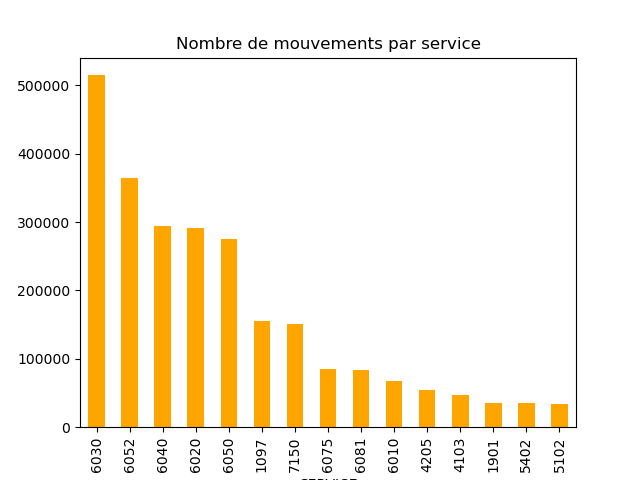
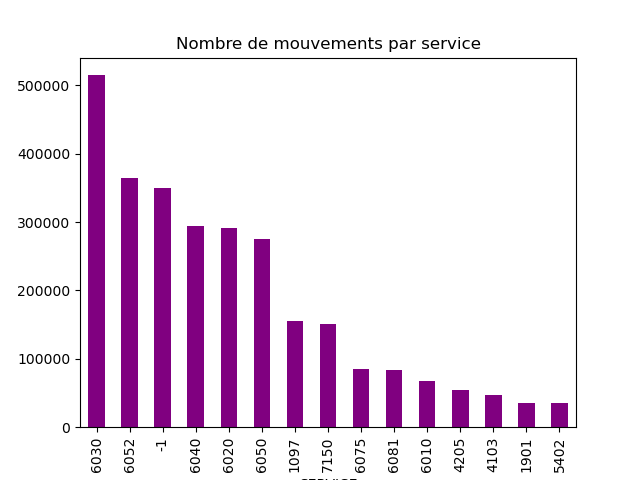
Modification interface graphique

Changed region(s): [[0.125, 0.1562, 0.9062, 1.0]]

diff --git a/pages/graphique6.py b/pages/graphique6.py
@@ -51,7 +51,7 @@ class Graphique6(tk.Frame):
         self.frame = tk.Frame(self)
         self.frame.place(relheight=1, y=0, x=450)
         self.frame.lower()
-        self.df3=of(ezip=None,nfile="medocs_produits.csv",echantillon=10000000,separator=";",pandas=True)
+        self.df2=of(ezip=None,nfile="medocs_produits.csv",echantillon=10000000,separator=";",pandas=True)
 
     def creation_graph(self):
         # Nettoyage de la figure actuelle
@@ -61,11 +61,11 @@ class Graphique6(tk.Frame):
         e_p=self.e_p.get().split(',') if self.e_p.get() != "" else []
         exclu=self.exclu.get().split(',') if self.exclu.get() != "" else []
 
-        graph6v2(self.controller.df,df3=self.df3,e_p=e_p,exclusions=exclu,nprod=self.nprod.get())
+        graph6v2(self.controller.df,df2=self.df2,e_p=e_p,exclusions=exclu,nprod=self.nprod.get())
         plt.gcf().set_size_inches(5, 4)
         plt.tight_layout()
         plt.subplots_adjust(bottom=0.20)
-        plt.savefig("./graphiques/img/test")
+        plt.savefig("./graphiques/img/g6.png")
 
         # Gestion du canvas
         if not hasattr(self, 'canvas'): # hasattr (has attribute), sert à vérifier si self, possède l'attribut canvas

diff --git a/graphiques/niv5.py b/graphiques/niv5.py
@@ -48,7 +48,7 @@ def graph5(df:pd.DataFrame,axe_x:str,axe_y:str,niveau:str,cherche1:str,title:str
     plt.show()
 def graph5v2(df:pd.DataFrame):
     axe_x,axe_y,cherche1="TYPEMVT","DATEMVT",'JourSemaine'
-    title='Proportion de mouvements par type de mouvement et par jour'
+    title='Proportion de mouvements par jour'
     days={'Monday': 'Lundi','Tuesday': 'Mardi','Wednesday': 'Mercredi','Thursday': 'Jeudi','Friday': 'Vendredi','Saturday': 'Samedi','Sunday': 'Dimanche'}
     colors=["red","orange","greenyellow","khaki","palegreen","green"]
     dic_typemvt={1:"Livraison",3:"Facturation",4:"Retour",5:"Avoir",7:"Dispensation",8:"Régulation livraison",

diff --git a/pages/graphique4.py b/pages/graphique4.py
@@ -57,7 +57,7 @@ class Graphique4(tk.Frame):
         if (self.srva.get()): self.asupp = None
         else: self.asupp = "-1"
 
-        graph4(fichier=self.controller.df2, index="SERVICE", asupp=self.asupp, nbr=nbr_srv)
+        graph4(fichier=self.controller.dfsp, index="SERVICE", asupp=self.asupp, nbr=nbr_srv)
         if self.title.get() != "" : plt.title(self.title.get())
         plt.gcf().set_size_inches(5, 4)
         plt.savefig("./graphiques/img/g4.png")

diff --git a/index.py b/index.py
@@ -22,7 +22,7 @@ class Index(tk.Tk):
         self.container.pack(fill="both", expand=True)
 
         self.df=of(ezip="medocs_mouvements.zip",nfile="mvtpdt.csv",echantillon=1000000000,separator=";",pandas=True)
-        self.df2=of(ezip="medocs_mouvements.zip",nfile="mvtpdt.csv",echantillon=1000000000,separator=";")
+        self.dfsp=of(ezip="medocs_mouvements.zip",nfile="mvtpdt.csv",echantillon=1000000000,separator=";")
 
         self.pages = {}
 
